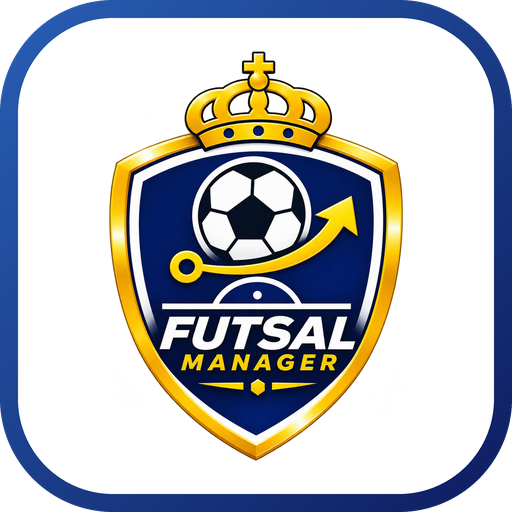
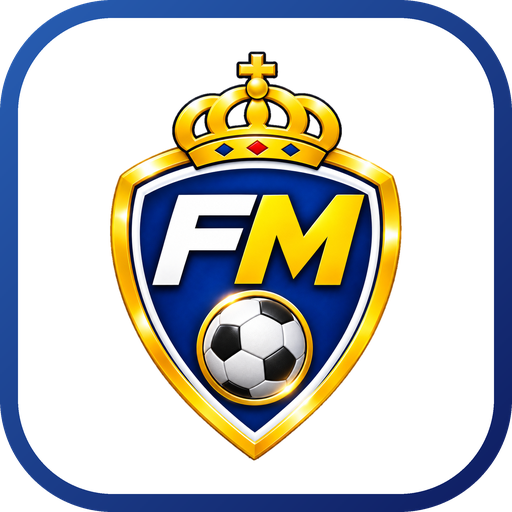
FM 엠블럼 아이콘 + 킥오프 전 화면 배치 정리 (v0.8.27)
- 앱 아이콘·파비콘·안드로이드용 아이콘을 FM 엠블럼으로 교체 (흰 배경 + 남색 그라데이션 테두리 유지), ?v=4
- 킥오프 전: 스코어 기록 줄은 상단 바 6px 아래, 설정은 킥오프 버튼 6px 위, 시계는 그 사이 가운데
- 경기 시간·종료 전 알림 버튼 400×180(태블릿 기준) 고정, 설정 영역 가로 가운데 정렬
- 하단 버튼 아래 여백 12px

Claude-Session: https://claude.ai/code/session_01AKpjGvyGkNHFkELSiHoPEV

Changed region(s): [[0.1875, 0.0938, 0.8125, 0.9062]]

diff --git a/index.html b/index.html
@@ -6,7 +6,7 @@
 <meta name="theme-color" content="#0A0D0B">
 <meta name="mobile-web-app-capable" content="yes">
 <link rel="manifest" href="manifest.json">
-<link rel="icon" type="image/png" href="Favicon_FM_192.png?v=3">
+<link rel="icon" type="image/png" href="Favicon_FM_192.png?v=4">
 <title>풋살 매니저</title>
 <style>
   :root {
@@ -93,19 +93,20 @@
   @keyframes flashOv { 0% { background: var(--yellow); } 50% { background: rgba(0,0,0,0.6); } }
 
   /* ---------- 설정 ---------- */
-  .settings { width: 100%; display: none; flex-direction: row; align-items: stretch; gap: 1.2vw; margin-top: 2.2vh; }
+  /* 설정 버튼 크기: 태블릿 화면(3504×2190) 기준 가로 400 × 세로 180 고정 (화면 비율로 환산) */
+  body { --optw: calc(100vw * 400 / 3504); --opth: calc(100vh * 180 / 2190); }
+  .settings { width: 100%; display: none; flex-direction: row; align-items: stretch; justify-content: center; gap: 1.2vw; margin-top: 2.2vh; }
   body[data-status="idle"] .settings { display: flex; }
   .col {
-    flex: 1; min-width: 0; display: flex; flex-direction: column; gap: calc(1.2vh + 8px);
+    flex: none; min-width: 0; display: flex; flex-direction: column; gap: calc(1.2vh + 8px);
     padding: calc(1.4vh + 4px) calc(1.2vw + 4px) calc(1.6vh + 4px);
     background: rgba(8,11,9,0.80); border: 2px solid rgba(255,255,255,0.16); border-radius: 20px;
     box-shadow: 0 6px 18px rgba(0,0,0,0.5), inset 0 1px 0 rgba(255,255,255,0.08);
   }
   .col > label { text-align: center; font-size: calc(max(17px, 2.9vh) + 4px + 2pt); font-weight: 400; color: #E6EDE8; }   /* '스코어 기록' 글자와 같은 색 */
-  .grid2 { display: grid; grid-template-columns: repeat(2, 1fr); gap: 0.8vw; }
-  .col-time { flex: 2; } .col-warn { flex: 3; }
-  .settings .opt { height: calc(8vh + 10px); font-size: calc(max(17px, 3vh) + 4px); }
-  .warns { display: grid; grid-template-columns: repeat(3, 1fr); gap: 0.8vw; }
+  .grid2 { display: grid; grid-template-columns: repeat(2, var(--optw)); gap: 0.8vw; }
+  .settings .opt { width: var(--optw); height: var(--opth); min-height: 0; font-size: calc(max(17px, 3vh) + 4px); }
+  .warns { display: grid; grid-template-columns: repeat(3, var(--optw)); gap: 0.8vw; }
   /* 시안 A: 없음을 위에 길게 */
   body.varA .warns { grid-template-columns: 1fr 1fr; grid-template-rows: 1fr 1fr; }
   body.varA .warns [data-warn="0"] { grid-column: 1 / 3; }
@@ -124,8 +125,15 @@
   /* ---------- 하단 버튼 ---------- */
   .controls {
     flex: none; display: flex; gap: 1.5vw;
-    padding: 2vh 2.5vw 2.5vh;
+    padding: 2vh 2.5vw calc(100vh * 12 / 876);   /* 하단 여백 12px (1402×876 화면 기준, 화면 높이 비율로 환산) */
   }
+  /* 킥오프 전 배치: 스코어 기록 줄은 상단 바 6px 아래, 설정은 킥오프 버튼 6px 위에 붙이고,
+     시계는 그 사이 세로 가운데 (6px = 1402×876 화면 기준, 화면 높이 비율로 환산) */
+  body[data-status="idle"] .stage { justify-content: flex-start; padding-top: calc(100vh * 6 / 876); }
+  body[data-status="idle"] .matchup { flex: none; margin-top: 0; margin-bottom: 0; }
+  body[data-status="idle"] .time-row { margin-top: auto; margin-bottom: auto; }
+  body[data-status="idle"] .settings { margin-top: 0; }
+  body[data-status="idle"] .controls { padding-top: calc(100vh * 6 / 876); }
   .btn {
     min-height: 72px; height: 15vh; border-radius: 20px;
     font-size: max(24px, 5.5vh); font-weight: 800;
@@ -643,7 +651,7 @@
 (function () {
   'use strict';
 
-  var APP_VERSION = '0.8.26';
+  var APP_VERSION = '0.8.27';
   var KEY = 'fm.timer.v1';
   var MIN_MS = 60 * 1000;
   var MAX_MS = 99 * 60 * 1000;
